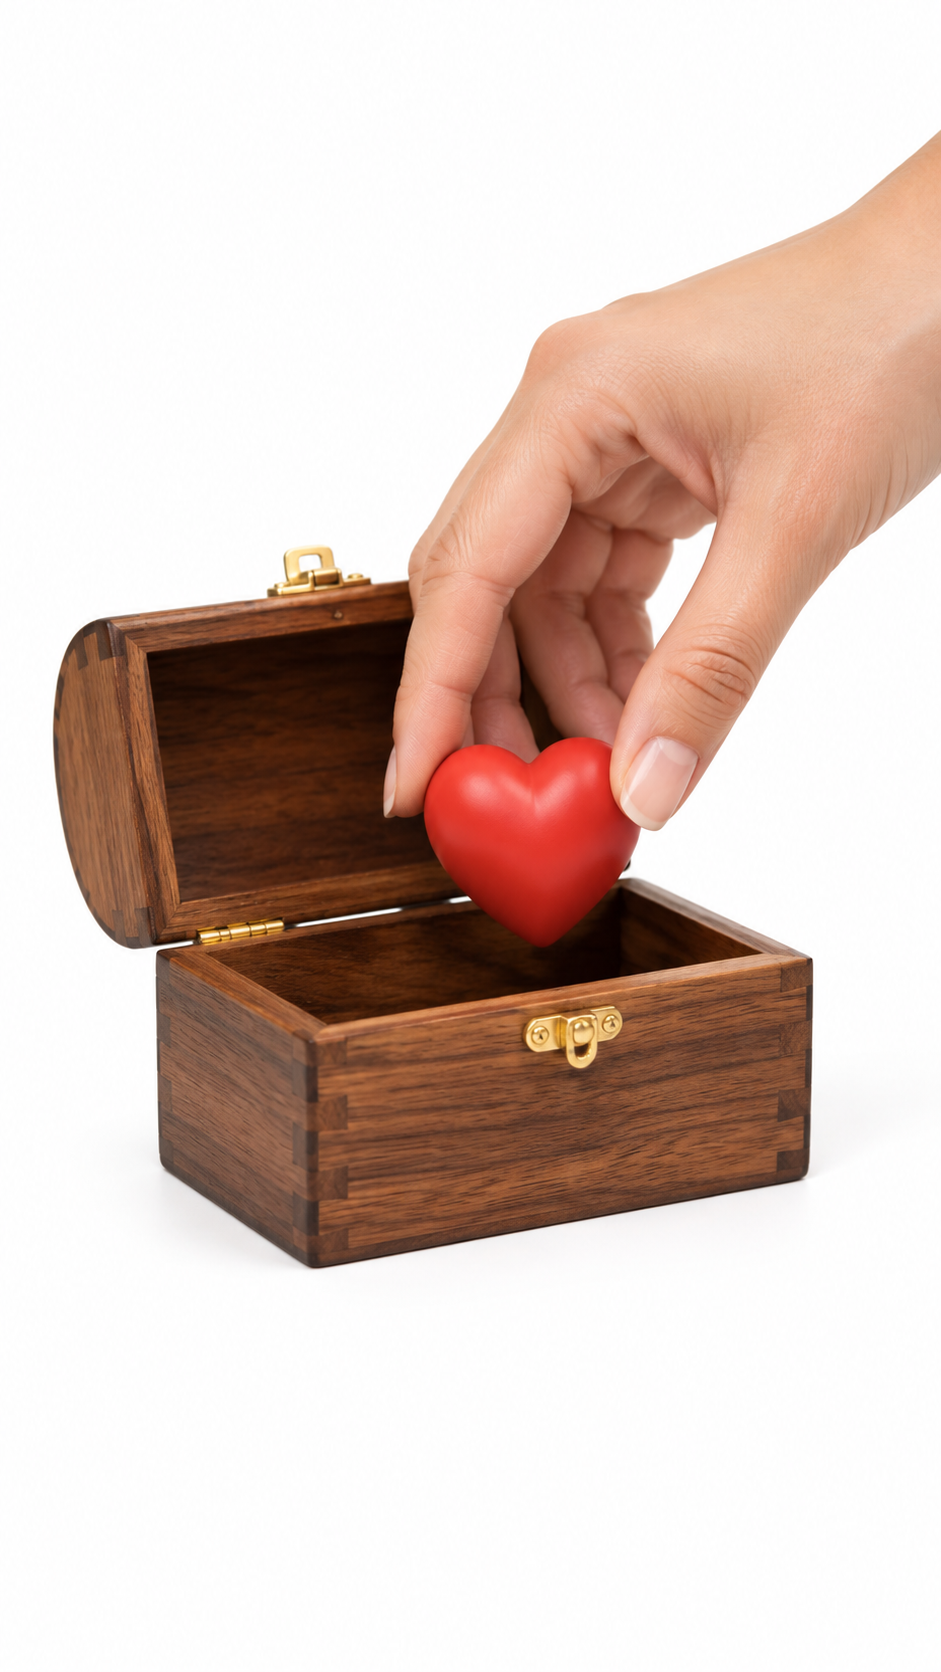
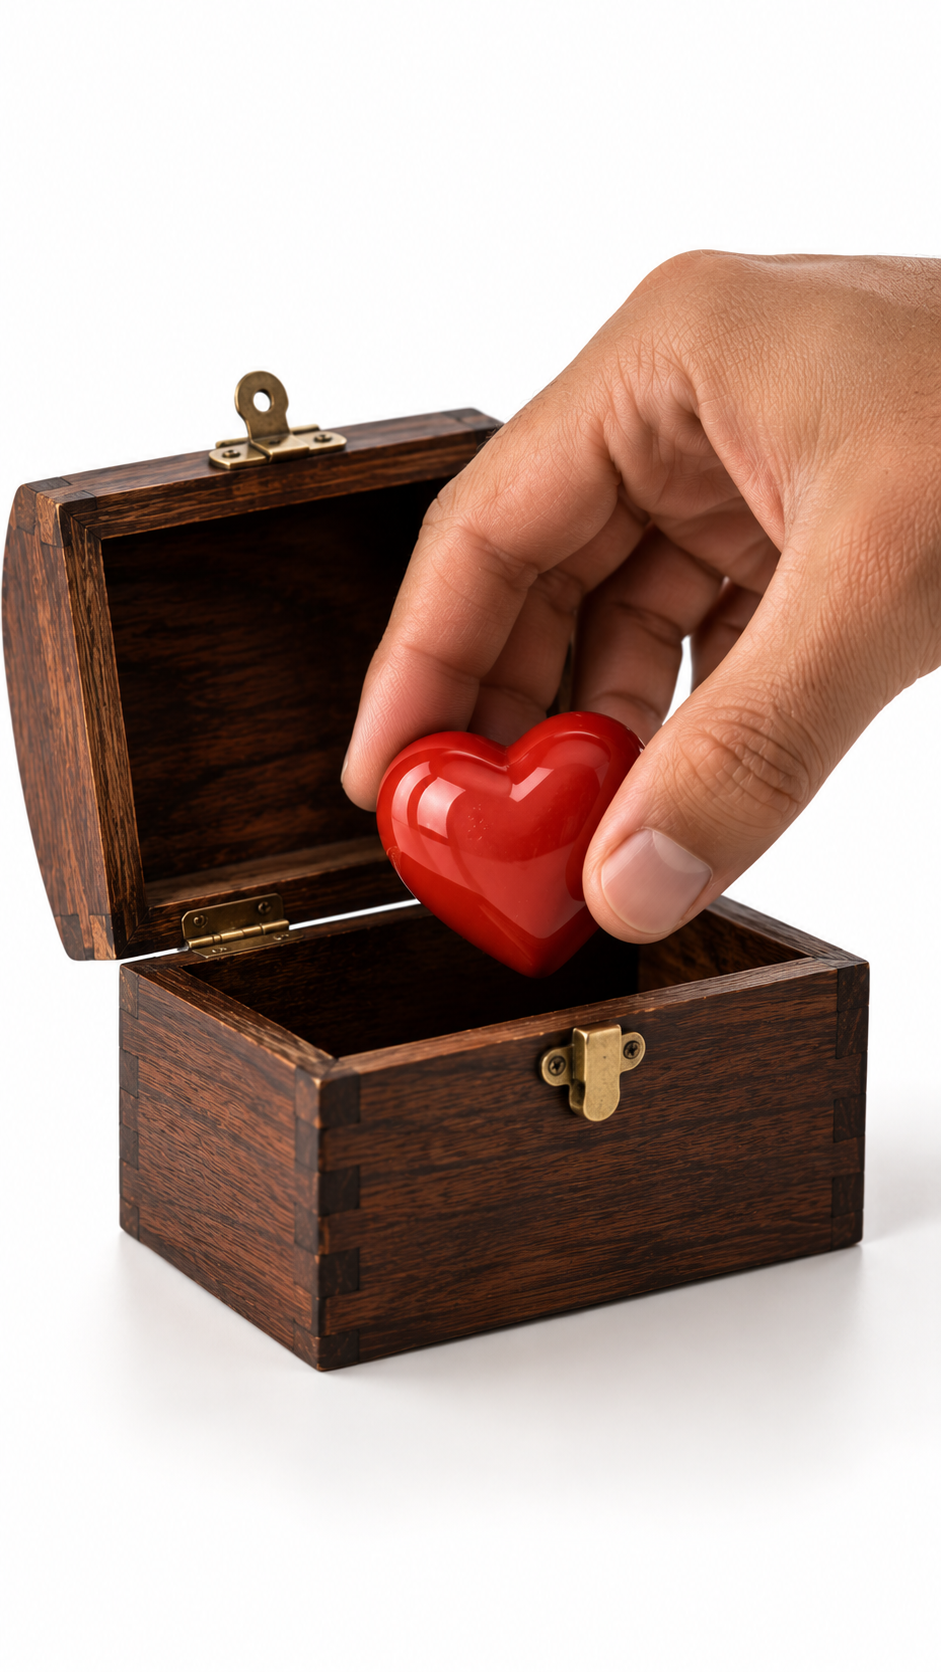
style: imágenes internas objetivo, duración, momento, guardadas
Claude-Session: https://claude.ai/code/session_011SJDMGPggcyayKHXJQooVG

diff --git a/app/page.tsx b/app/page.tsx
@@ -1170,11 +1170,13 @@ export default function App() {
     return <main className="app-shell app-main section-app day-one-screen"><section className="day-one-section"><FixedHeader eyebrow={screen.eyebrow} title={screen.title} subtitle={screen.subtitle} onBack={back} onNavigate={navigateTo} /><DayOneCarousel key={carouselKey} items={screen.items} initialIndex={carouselIndicesRef.current[carouselKey] ?? 0} onIndexChange={(index) => { carouselIndicesRef.current[carouselKey] = index; }} onSelect={(item, index) => { carouselIndicesRef.current[carouselKey] = index; select(item); }} isFavorite={(item) => item.reader ? favorites.some((favorite) => favorite.id === deckFavorite(item).id) : undefined} onFavorite={(item) => toggleFavorite(deckFavorite(item))} /></section></main>;
   }
   const carouselKey = `${tab}-${trail.map((item) => item.title).join('/')}`;
-  // Estas 3 pantallas tienen fotos reales de fondo (a diferencia del resto
-  // de las pantallas internas, que siguen con ícono chico + texto arriba):
-  // Prácticas guiadas, su sub-deck de 7 días, y Consultas.
+  // Estas pantallas tienen fotos reales de fondo (a diferencia del resto de
+  // las pantallas internas, que siguen con ícono chico + texto arriba):
+  // Prácticas guiadas, su sub-deck de 7 días, Consultas y Tu propia práctica
+  // (Objetivo/Duración/Momento).
   const photoCardsScreen = (tab === 'talleres' && trail.length === 0)
     || (tab === 'talleres' && trail.length === 1 && trail[0].title === 'Prácticas de 7 días')
-    || (tab === 'consultas' && trail.length === 0);
-  return <main className={`app-shell app-main section-app day-one-screen${photoCardsScreen ? ' photo-cards-screen' : ''}`}><section className="day-one-section"><FixedHeader eyebrow={screen.eyebrow} title={screen.title} subtitle={screen.subtitle} onBack={back} onNavigate={navigateTo} /><DayOneCarousel key={carouselKey} label={screen.title} items={screen.items.map((item) => item.accountPanel ? { ...item, image: '/images/mi-cuenta-acceso.png' } : item.title === 'Favoritos' ? { ...item, image: '/images/favoritos-guardados.png' } : item.title === 'Mi avance' ? { ...item, image: '/images/mi-avance-progreso.png' } : item.title === 'Configuración' ? { ...item, image: '/images/configuracion-horarios-zona.png' } : item.title === 'Activar notificaciones' ? { ...item, image: '/images/activar-notificaciones.png' } : item.title === 'Horarios de práctica' ? { ...item, image: '/images/horarios-practica.png' } : item.title === 'Preferencias' ? { ...item, image: '/images/preferencias-avisos.png' } : item.title === 'Prácticas de 7 días' ? { ...item, image: '/images/interno-7dias.png' } : item.title === 'Prácticas de 15 días' ? { ...item, image: '/images/interno-15dias.png' } : item.title === 'Prácticas de 40 días' ? { ...item, image: '/images/interno-40dias.png' } : item.title === 'Amor y relaciones' ? { ...item, image: '/images/interno-amor.png' } : item.title === 'Dinero y trabajo' ? { ...item, image: '/images/interno-dinero.png' } : item.title === 'Salud y bienestar' ? { ...item, image: '/images/interno-salud.png' } : item.title === 'Antes de una reunion, entrevista o examen' ? { ...item, image: '/images/antes-reunion-entrevista-examen.png' } : item.title === 'Cuando te agarro la ansiedad' ? { ...item, image: '/images/cuando-te-agarro-la-ansiedad.png' } : item.title === 'Cuando no podes parar la cabeza para dormir' ? { ...item, image: '/images/cuando-no-podes-parar-la-cabeza-para-dormir.png' } : item.title === 'Cuando te peleaste con alguien' ? { ...item, image: '/images/cuando-te-peleaste-con-alguien.png' } : item.title === 'Cuando te llego una mala noticia' ? { ...item, image: '/images/cuando-te-llego-una-mala-noticia.png' } : item.title === 'Antes de tomar una decision dificil' ? { ...item, image: '/images/antes-de-tomar-una-decision-dificil.png' } : item.title === 'Cuando te sentis solo' ? { ...item, image: '/images/cuando-te-sentis-solo.png' } : item.title === 'Cuando estas bajoneado sin saber por que' ? { ...item, image: '/images/cuando-estas-bajoneado-sin-saber-por-que.png' } : item.title === 'Antes de hablar en publico' ? { ...item, image: '/images/antes-de-hablar-en-publico.png' } : item.title === 'Cuando te ataca la culpa' ? { ...item, image: '/images/cuando-te-ataca-la-culpa.png' } : item.title === 'Para arrancar el dia con fuerza' ? { ...item, image: '/images/para-arrancar-el-dia-con-fuerza.png' } : item.title === 'Para cerrar el dia en paz' ? { ...item, image: '/images/para-cerrar-el-dia-en-paz.png' } : item.title === 'Cuando tenes miedo de algo' ? { ...item, image: '/images/cuando-tenes-miedo-de-algo.png' } : item.title === 'Cuando queres sentirte mejor rapido' ? { ...item, image: '/images/cuando-queres-sentirte-mejor-rapido.png' } : item.title === 'Cuando necesitas un envion de seguridad' ? { ...item, image: '/images/cuando-necesitas-un-envion-de-seguridad.png' } : item.title === 'Preguntar' ? { ...item, image: '/images/interno-preguntar.png' } : item.title === 'Escuchar' ? { ...item, image: '/images/interno-escuchar.png' } : item.title === 'Guardadas' ? { ...item, image: '/images/interno-guardadas.png' } : item.title === 'Objetivo' ? { ...item, image: '/images/objetivo.png' } : item.title === 'Duración' ? { ...item, image: '/images/duracion.png' } : item.title === 'Momento' ? { ...item, image: '/images/momento.png' } : item)} initialIndex={carouselIndicesRef.current[carouselKey] ?? 0} onIndexChange={(index) => { carouselIndicesRef.current[carouselKey] = index; }} onSelect={(item, index) => { carouselIndicesRef.current[carouselKey] = index; select(item); }} isFavorite={(item) => item.reader ? favorites.some((favorite) => favorite.id === deckFavorite(item).id) : undefined} onFavorite={(item) => toggleFavorite(deckFavorite(item))} /></section></main>;
+    || (tab === 'consultas' && trail.length === 0)
+    || (tab === 'propia' && trail.length === 0);
+  return <main className={`app-shell app-main section-app day-one-screen${photoCardsScreen ? ' photo-cards-screen' : ''}`}><section className="day-one-section"><FixedHeader eyebrow={screen.eyebrow} title={screen.title} subtitle={screen.subtitle} onBack={back} onNavigate={navigateTo} /><DayOneCarousel key={carouselKey} label={screen.title} items={screen.items.map((item) => item.accountPanel ? { ...item, image: '/images/mi-cuenta-acceso.png' } : item.title === 'Favoritos' ? { ...item, image: '/images/favoritos-guardados.png' } : item.title === 'Mi avance' ? { ...item, image: '/images/mi-avance-progreso.png' } : item.title === 'Configuración' ? { ...item, image: '/images/configuracion-horarios-zona.png' } : item.title === 'Activar notificaciones' ? { ...item, image: '/images/activar-notificaciones.png' } : item.title === 'Horarios de práctica' ? { ...item, image: '/images/horarios-practica.png' } : item.title === 'Preferencias' ? { ...item, image: '/images/preferencias-avisos.png' } : item.title === 'Prácticas de 7 días' ? { ...item, image: '/images/interno-7dias.png' } : item.title === 'Prácticas de 15 días' ? { ...item, image: '/images/interno-15dias.png' } : item.title === 'Prácticas de 40 días' ? { ...item, image: '/images/interno-40dias.png' } : item.title === 'Amor y relaciones' ? { ...item, image: '/images/interno-amor.png' } : item.title === 'Dinero y trabajo' ? { ...item, image: '/images/interno-dinero.png' } : item.title === 'Salud y bienestar' ? { ...item, image: '/images/interno-salud.png' } : item.title === 'Antes de una reunion, entrevista o examen' ? { ...item, image: '/images/antes-reunion-entrevista-examen.png' } : item.title === 'Cuando te agarro la ansiedad' ? { ...item, image: '/images/cuando-te-agarro-la-ansiedad.png' } : item.title === 'Cuando no podes parar la cabeza para dormir' ? { ...item, image: '/images/cuando-no-podes-parar-la-cabeza-para-dormir.png' } : item.title === 'Cuando te peleaste con alguien' ? { ...item, image: '/images/cuando-te-peleaste-con-alguien.png' } : item.title === 'Cuando te llego una mala noticia' ? { ...item, image: '/images/cuando-te-llego-una-mala-noticia.png' } : item.title === 'Antes de tomar una decision dificil' ? { ...item, image: '/images/antes-de-tomar-una-decision-dificil.png' } : item.title === 'Cuando te sentis solo' ? { ...item, image: '/images/cuando-te-sentis-solo.png' } : item.title === 'Cuando estas bajoneado sin saber por que' ? { ...item, image: '/images/cuando-estas-bajoneado-sin-saber-por-que.png' } : item.title === 'Antes de hablar en publico' ? { ...item, image: '/images/antes-de-hablar-en-publico.png' } : item.title === 'Cuando te ataca la culpa' ? { ...item, image: '/images/cuando-te-ataca-la-culpa.png' } : item.title === 'Para arrancar el dia con fuerza' ? { ...item, image: '/images/para-arrancar-el-dia-con-fuerza.png' } : item.title === 'Para cerrar el dia en paz' ? { ...item, image: '/images/para-cerrar-el-dia-en-paz.png' } : item.title === 'Cuando tenes miedo de algo' ? { ...item, image: '/images/cuando-tenes-miedo-de-algo.png' } : item.title === 'Cuando queres sentirte mejor rapido' ? { ...item, image: '/images/cuando-queres-sentirte-mejor-rapido.png' } : item.title === 'Cuando necesitas un envion de seguridad' ? { ...item, image: '/images/cuando-necesitas-un-envion-de-seguridad.png' } : item.title === 'Preguntar' ? { ...item, image: '/images/interno-preguntar.png' } : item.title === 'Escuchar' ? { ...item, image: '/images/interno-escuchar.png' } : item.title === 'Guardadas' ? { ...item, image: '/images/interno-guardadas.png' } : item.title === 'Objetivo' ? { ...item, image: '/images/interno-objetivo.png' } : item.title === 'Duración' ? { ...item, image: '/images/interno-duracion.png' } : item.title === 'Momento' ? { ...item, image: '/images/interno-momento.png' } : item)} initialIndex={carouselIndicesRef.current[carouselKey] ?? 0} onIndexChange={(index) => { carouselIndicesRef.current[carouselKey] = index; }} onSelect={(item, index) => { carouselIndicesRef.current[carouselKey] = index; select(item); }} isFavorite={(item) => item.reader ? favorites.some((favorite) => favorite.id === deckFavorite(item).id) : undefined} onFavorite={(item) => toggleFavorite(deckFavorite(item))} /></section></main>;
 }
